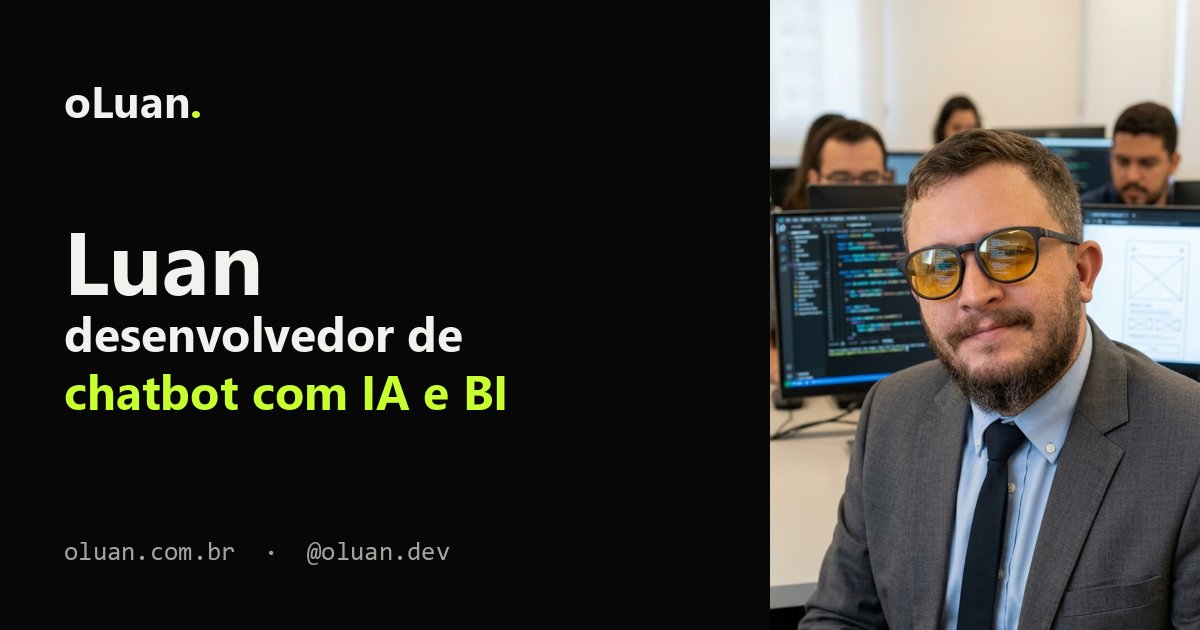
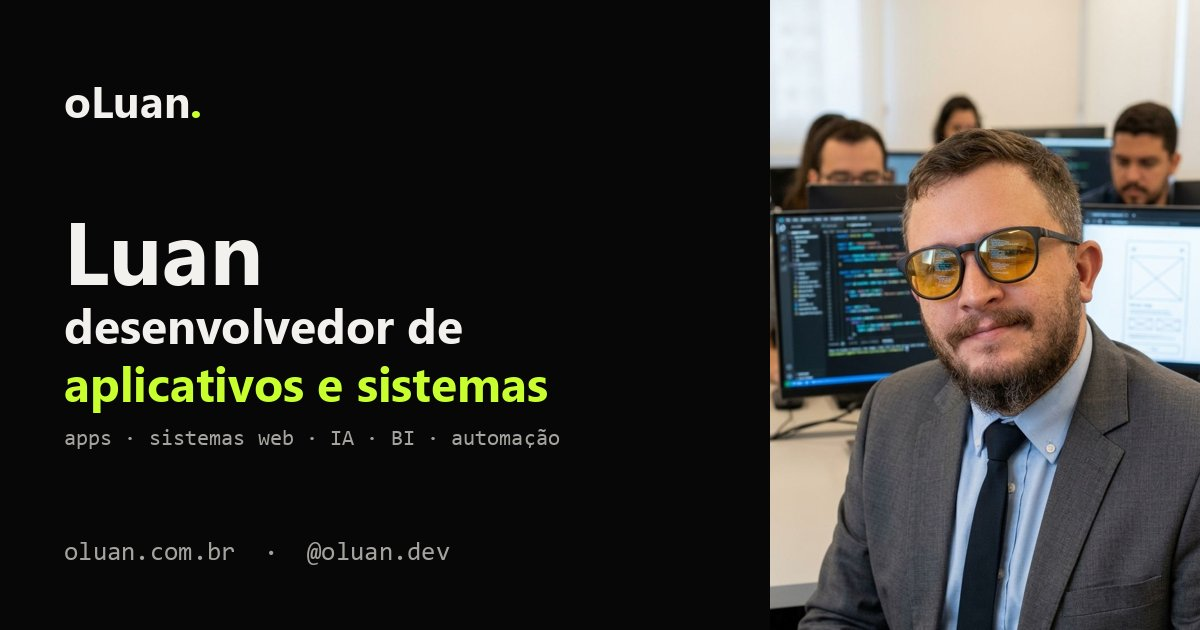
Posicionamento amplo: desenvolvedor de aplicativos e sistemas (títulos, h1, soluções, quem-e-luan, OG, JSON-LD); menus sem âncoras mortas
Claude-Session: https://claude.ai/code/session_01YQCytt5bLr4rNdWs85awun

Changed region(s): [[0.0308, 0.3619, 0.4625, 0.7238], [0.2775, 0.6937, 0.3392, 0.7238]]

diff --git a/index.html b/index.html
@@ -6,25 +6,25 @@
 <link rel="icon" type="image/png" href="favicon.png">
 <link rel="apple-touch-icon" href="apple-touch-icon.png">
 <script src="rastreio.js" defer></script>
-<title>Luan, desenvolvedor de chatbot com IA e BI · oLuan</title>
-<meta name="description" content="Luan (oluan.dev), desenvolvedor sob medida: chatbot com IA no WhatsApp, dashboard de BI com IA, projeções, KPIs e estoque para pequenas e médias empresas.">
+<title>Luan, desenvolvedor de aplicativos e sistemas · oLuan</title>
+<meta name="description" content="Luan (oluan.dev), desenvolvedor de aplicativos e sistemas sob medida: apps, sistemas web, chatbot com IA, dashboard de BI e automação para empresas.">
 <link rel="canonical" href="https://oluan.com.br/">
 <meta property="og:type" content="website">
 <meta property="og:locale" content="pt_BR">
 <meta property="og:site_name" content="oLuan">
 <meta property="og:url" content="https://oluan.com.br/">
-<meta property="og:title" content="Luan, desenvolvedor de chatbot com IA e BI">
-<meta property="og:description" content="Luan (oluan.dev), desenvolvedor sob medida: chatbot com IA no WhatsApp, dashboard de BI com IA, projeções, KPIs e estoque para pequenas e médias empresas.">
+<meta property="og:title" content="Luan, desenvolvedor de aplicativos e sistemas">
+<meta property="og:description" content="Luan (oluan.dev), desenvolvedor de aplicativos e sistemas sob medida: apps, sistemas web, chatbot com IA, dashboard de BI e automação para empresas.">
 <meta property="og:image" content="https://oluan.com.br/og.jpg">
 <meta property="og:image:width" content="1200">
 <meta property="og:image:height" content="630">
-<meta property="og:image:alt" content="Luan, desenvolvedor de chatbot com IA e BI">
+<meta property="og:image:alt" content="Luan, desenvolvedor de aplicativos e sistemas">
 <meta name="twitter:card" content="summary_large_image">
-<meta name="twitter:title" content="Luan, desenvolvedor de chatbot com IA e BI">
-<meta name="twitter:description" content="Luan (oluan.dev), desenvolvedor sob medida: chatbot com IA no WhatsApp, dashboard de BI com IA, projeções, KPIs e estoque para pequenas e médias empresas.">
+<meta name="twitter:title" content="Luan, desenvolvedor de aplicativos e sistemas">
+<meta name="twitter:description" content="Luan (oluan.dev), desenvolvedor de aplicativos e sistemas sob medida: apps, sistemas web, chatbot com IA, dashboard de BI e automação para empresas.">
 <meta name="twitter:image" content="https://oluan.com.br/og.jpg">
 <script type="application/ld+json">
-{"@context": "https://schema.org", "@graph": [{"@type": "Person", "@id": "https://oluan.com.br/#luan", "name": "Luan", "alternateName": ["oLuan", "oluan.dev"], "url": "https://oluan.com.br/", "image": "https://oluan.com.br/luan.jpg", "jobTitle": "Desenvolvedor de software sob medida", "email": "luan@oluan.com.br", "sameAs": ["https://github.com/oluan-dev", "https://instagram.com/oluan.dev"], "knowsAbout": ["chatbot com IA para WhatsApp", "Business Intelligence", "dashboard com IA", "banco de dados vetorizado", "projeções financeiras", "automação de processos"]}, {"@type": "WebSite", "@id": "https://oluan.com.br/#site", "name": "oLuan", "alternateName": "oluan.dev", "url": "https://oluan.com.br/", "inLanguage": "pt-BR", "publisher": {"@id": "https://oluan.com.br/#luan"}}, {"@type": "ProfessionalService", "name": "oLuan", "url": "https://oluan.com.br/", "email": "luan@oluan.com.br", "telephone": "+55-21-97056-8810", "areaServed": "BR", "sameAs": ["https://instagram.com/oluan.dev", "https://github.com/oluan-dev"], "description": "Chatbot com IA para WhatsApp, dashboard de Business Intelligence com IA, projeções financeiras e contábeis, KPIs, controle de estoque e automação de processos para pequenas e médias empresas.", "founder": {"@id": "https://oluan.com.br/#luan"}, "image": "https://oluan.com.br/og.jpg"}, {"@type": "FAQPage", "mainEntity": [{"@type": "Question", "name": "Preciso trocar o sistema que eu já uso?", "acceptedAnswer": {"@type": "Answer", "text": "Não. Eu conecto no que a empresa já tem: sistema de gestão, ERP, banco de dados ou até a planilha antiga. Tem API, uso a API. Não tem, leio do banco ou dos arquivos que o sistema exporta."}}, {"@type": "Question", "name": "O chatbot com IA pode inventar resposta?", "acceptedAnswer": {"@type": "Answer", "text": "Não, e por dois motivos. Ele responde consultando um banco de dados vetorizado com o histórico da sua empresa, que aprende com cada atendimento do dia a dia. E um supervisor digital revisa as conversas 24 horas por dia e corrige o que sair do trilho. O que ele não sabe vai para uma pessoa da equipe, com a conversa inteira junto."}}, {"@type": "Question", "name": "A IA do dashboard entende os números da minha empresa?", "acceptedAnswer": {"@type": "Answer", "text": "Entende e mostra de onde tirou. Ela lê o histórico de vendas, financeiro, estoque e atendimento, responde em português e aponta o dado que usou. Você confere antes de decidir."}}, {"@type": "Question", "name": "Quanto custa um chatbot com IA ou um dashboard de BI?", "acceptedAnswer": {"@type": "Answer", "text": "Preço fechado por projeto. Sai no diagnóstico, 2 dias depois de uma conversa de 30 minutos. Sem cobrança por hora e sem escopo que cresce sem aviso."}}, {"@type": "Question", "name": "Quanto tempo até funcionar?", "acceptedAnswer": {"@type": "Answer", "text": "Tem entrega toda semana. Você usa cada parte funcionando com os seus dados antes de eu começar a próxima. Nada de sumir três meses e voltar com surpresa."}}, {"@type": "Question", "name": "E depois de entregue?", "acceptedAnswer": {"@type": "Answer", "text": "30 dias de suporte inclusos. A equipe aprende a usar em uma tarde. Depois, manutenção mensal se fizer sentido para a sua empresa."}}]}]}
+{"@context": "https://schema.org", "@graph": [{"@type": "Person", "@id": "https://oluan.com.br/#luan", "name": "Luan", "alternateName": ["oLuan", "oluan.dev"], "url": "https://oluan.com.br/", "image": "https://oluan.com.br/luan.jpg", "jobTitle": "Desenvolvedor de aplicativos e sistemas sob medida", "email": "luan@oluan.com.br", "sameAs": ["https://github.com/oluan-dev", "https://instagram.com/oluan.dev"], "knowsAbout": ["aplicativos para celular", "sistemas web sob medida", "chatbot com IA para WhatsApp", "Business Intelligence", "dashboard com IA", "banco de dados vetorizado", "projeções financeiras", "integração de sistemas e APIs", "automação de processos"]}, {"@type": "WebSite", "@id": "https://oluan.com.br/#site", "name": "oLuan", "alternateName": "oluan.dev", "url": "https://oluan.com.br/", "inLanguage": "pt-BR", "publisher": {"@id": "https://oluan.com.br/#luan"}}, {"@type": "ProfessionalService", "name": "oLuan", "url": "https://oluan.com.br/", "email": "luan@oluan.com.br", "telephone": "+55-21-97056-8810", "areaServed": "BR", "sameAs": ["https://instagram.com/oluan.dev", "https://github.com/oluan-dev"], "description": "Desenvolvimento de aplicativos e sistemas sob medida para empresas: apps, sistemas web, chatbot com IA para WhatsApp, dashboard de BI com IA, projeções, KPIs, estoque, integrações e automação.", "founder": {"@id": "https://oluan.com.br/#luan"}, "image": "https://oluan.com.br/og.jpg"}, {"@type": "FAQPage", "mainEntity": [{"@type": "Question", "name": "Preciso trocar o sistema que eu já uso?", "acceptedAnswer": {"@type": "Answer", "text": "Não. Eu conecto no que a empresa já tem: sistema de gestão, ERP, banco de dados ou até a planilha antiga. Tem API, uso a API. Não tem, leio do banco ou dos arquivos que o sistema exporta."}}, {"@type": "Question", "name": "O chatbot com IA pode inventar resposta?", "acceptedAnswer": {"@type": "Answer", "text": "Não, e por dois motivos. Ele responde consultando um banco de dados vetorizado com o histórico da sua empresa, que aprende com cada atendimento do dia a dia. E um supervisor digital revisa as conversas 24 horas por dia e corrige o que sair do trilho. O que ele não sabe vai para uma pessoa da equipe, com a conversa inteira junto."}}, {"@type": "Question", "name": "A IA do dashboard entende os números da minha empresa?", "acceptedAnswer": {"@type": "Answer", "text": "Entende e mostra de onde tirou. Ela lê o histórico de vendas, financeiro, estoque e atendimento, responde em português e aponta o dado que usou. Você confere antes de decidir."}}, {"@type": "Question", "name": "Quanto custa um aplicativo ou sistema sob medida?", "acceptedAnswer": {"@type": "Answer", "text": "Preço fechado por projeto. Sai no diagnóstico, 2 dias depois de uma conversa de 30 minutos. Sem cobrança por hora e sem escopo que cresce sem aviso."}}, {"@type": "Question", "name": "Quanto tempo até funcionar?", "acceptedAnswer": {"@type": "Answer", "text": "Tem entrega toda semana. Você usa cada parte funcionando com os seus dados antes de eu começar a próxima. Nada de sumir três meses e voltar com surpresa."}}, {"@type": "Question", "name": "E depois de entregue?", "acceptedAnswer": {"@type": "Answer", "text": "30 dias de suporte inclusos. A equipe aprende a usar em uma tarde. Depois, manutenção mensal se fizer sentido para a sua empresa."}}]}]}
 </script>
 <link rel="preconnect" href="https://fonts.gstatic.com" crossorigin>
 <link href="https://fonts.googleapis.com/css2?family=Space+Grotesk:wght@500;700&family=Fraunces:ital,opsz,wght@0,9..144,500;1,9..144,400&family=Inter:wght@400;500;600&family=JetBrains+Mono:wght@500&display=swap" rel="stylesheet">
@@ -199,6 +199,9 @@ section h2{font-size:clamp(36px,5.6vw,84px);max-width:14ch;text-wrap:balance}
 .ask-line a{color:var(--acc);text-decoration:underline;text-underline-offset:4px}
 
 .agents{grid-template-columns:repeat(3,minmax(0,1fr))}
+.agent.wide{grid-column:1/-1;grid-template-columns:minmax(0,1.4fr) minmax(0,1fr);grid-template-rows:auto 1fr auto;column-gap:32px}
+.agent.wide .id{grid-column:1/-1}.agent.wide .mini{grid-column:2;grid-row:2/4}
+@media(max-width:620px){.agent.wide{grid-template-columns:1fr}.agent.wide .mini{grid-column:auto;grid-row:auto}}
 @media(max-width:1000px){.agents{grid-template-columns:repeat(2,minmax(0,1fr))}}
 @media(max-width:620px){.agents{grid-template-columns:1fr}}
 .agent.live .m6 .row{animation:none;opacity:1}
@@ -371,9 +374,9 @@ html.motion [data-reveal]{opacity:0;transform:translateY(28px)}
     <canvas id="gl" aria-hidden="true"></canvas>
     <div class="state" aria-hidden="true"><span class="on" data-s="0">Bagunça</span><b></b><span data-s="1">Painel</span></div>
     <div class="hero-copy"><div class="wrap">
-      <h1><span class="pre">Luan · desenvolvedor de chatbot com IA e BI</span>A bagunça da sua empresa <em>vira painel inteligente.</em></h1>
+      <h1><span class="pre">Luan · desenvolvedor de aplicativos e sistemas</span>A bagunça da sua empresa <em>vira painel inteligente.</em></h1>
       <div class="row">
-        <p class="sub">Chatbot com IA que faz todo o atendimento no WhatsApp. Dashboard de Business Intelligence que lê o histórico da sua empresa, projeta o caixa e diz onde cada setor tem que agir esta semana. Tudo ligado ao sistema que você já usa.</p>
+        <p class="sub">Aplicativos, sistemas web, chatbot com IA no atendimento e dashboard de BI que lê o histórico da sua empresa e diz onde cada setor tem que agir. Do zero ou em cima do que você já usa.</p>
         <div class="cta">
           <a class="btn acc" href="https://wa.me/5521970568810?text=Oi%20Luan%2C%20vi%20seu%20site%20e%20quero%20conversar%20sobre%20automa%C3%A7%C3%A3o" target="_blank" rel="noopener"><span class="dot"></span>Falar no WhatsApp</a>
           <a class="btn" href="fala-comigo.html">Que bagunça é a sua? →</a>
@@ -438,10 +441,20 @@ html.motion [data-reveal]{opacity:0;transform:translateY(28px)}
 <section id="solucoes"><div class="wrap">
   <div class="head">
     <p class="eyebrow" data-reveal>Soluções</p>
-    <h2 data-words>Do atendimento à decisão, no automático.</h2>
-    <p class="sub" data-reveal>Cada solução funciona sozinha. Juntas, o chatbot alimenta o painel e o painel diz quem cobrar, quem chamar e o que comprar. Passe o mouse (ou role até ela) para ver funcionando.</p>
+    <h2 data-words>Se a sua empresa precisa, eu construo.</h2>
+    <p class="sub" data-reveal>Aplicativo, sistema, atendimento, gestão. Cada solução funciona sozinha. Juntas, o chatbot alimenta o painel e o painel diz quem cobrar, quem chamar e o que comprar. Passe o mouse (ou role até ela) para ver funcionando.</p>
   </div>
   <div class="agents">
+    <div class="agent wide" data-agent data-reveal>
+      <div class="id"><span>00</span><span>Apps · sistemas · sob medida</span></div>
+      <div><h3>Aplicativos e sistemas sob medida</h3><p>App de celular, sistema web, portal do cliente, área administrativa, integração entre sistemas. Do zero, ou em cima do que a empresa já usa. Abaixo, as soluções que mais saem; se não estiver na lista, eu construo também.</p></div>
+      <div class="mini m4">
+        <div class="fone"></div>
+        <div class="arrow">→<i></i></div>
+        <div class="tbl"><i></i><i></i><i></i><i></i><i></i></div>
+      </div>
+      <div class="foot"><span>do celular ao servidor</span><b>qualquer tamanho</b></div>
+    </div>
     <div class="agent" data-agent data-reveal>
       <div class="id"><span>01</span><span>WhatsApp · IA</span></div>
       <div><h3>Chatbot com IA para todo o atendimento</h3><p>Tira dúvida, faz orçamento, agenda, remarca, cobra e abre chamado consultando o seu sistema. Passa para a equipe só o que precisa de gente, com o histórico junto.</p></div>
@@ -545,7 +558,7 @@ html.motion [data-reveal]{opacity:0;transform:translateY(28px)}
       <div class="qa-body"><p><b>Entende e mostra de onde tirou.</b> Ela lê o histórico de vendas, financeiro, estoque e atendimento, responde em português e aponta o dado que usou. Você confere antes de decidir.</p><div class="qchips"><span>histórico completo</span><span>pergunta em português</span></div></div>
     </details>
     <details class="qa" name="faq">
-      <summary><span class="qn">04 · preço</span><span class="qq">Quanto custa um chatbot com IA ou um dashboard de BI?</span><span class="qx" aria-hidden="true"></span></summary>
+      <summary><span class="qn">04 · preço</span><span class="qq">Quanto custa um aplicativo ou sistema sob medida?</span><span class="qx" aria-hidden="true"></span></summary>
       <div class="qa-body"><p><b>Preço fechado por projeto.</b> Sai no diagnóstico, 2 dias depois de uma conversa de 30 minutos. Sem cobrança por hora e sem escopo que cresce sem aviso.</p><div class="qchips"><span>conversa: 30 min</span><span>diagnóstico: 2 dias</span></div></div>
     </details>
     <details class="qa" name="faq">

diff --git a/quem-e-luan.html b/quem-e-luan.html
@@ -7,24 +7,24 @@
 <link rel="apple-touch-icon" href="apple-touch-icon.png">
 <script src="rastreio.js" defer></script>
 <title>Quem é Luan? Desenvolvedor sob medida · oLuan</title>
-<meta name="description" content="Luan (oluan.dev) é desenvolvedor sob medida para PMEs: chatbot com IA no WhatsApp, dashboard de BI com IA, projeções e automação. Quem conversa é quem constrói.">
+<meta name="description" content="Luan (oluan.dev) é desenvolvedor de aplicativos e sistemas sob medida: apps, sistemas web, chatbot com IA, BI e automação. Quem conversa é quem constrói.">
 <link rel="canonical" href="https://oluan.com.br/quem-e-luan.html">
 <meta property="og:type" content="website">
 <meta property="og:locale" content="pt_BR">
 <meta property="og:site_name" content="oLuan">
 <meta property="og:url" content="https://oluan.com.br/quem-e-luan.html">
 <meta property="og:title" content="Quem é Luan? · oLuan">
-<meta property="og:description" content="Luan (oluan.dev) é desenvolvedor sob medida para PMEs: chatbot com IA no WhatsApp, dashboard de BI com IA, projeções e automação. Quem conversa é quem constrói.">
+<meta property="og:description" content="Luan (oluan.dev) é desenvolvedor de aplicativos e sistemas sob medida: apps, sistemas web, chatbot com IA, BI e automação. Quem conversa é quem constrói.">
 <meta property="og:image" content="https://oluan.com.br/og.jpg">
 <meta property="og:image:width" content="1200">
 <meta property="og:image:height" content="630">
-<meta property="og:image:alt" content="Luan, desenvolvedor de chatbot com IA e BI">
+<meta property="og:image:alt" content="Luan, desenvolvedor de aplicativos e sistemas">
 <meta name="twitter:card" content="summary_large_image">
 <meta name="twitter:title" content="Quem é Luan? · oLuan">
-<meta name="twitter:description" content="Luan (oluan.dev) é desenvolvedor sob medida para PMEs: chatbot com IA no WhatsApp, dashboard de BI com IA, projeções e automação. Quem conversa é quem constrói.">
+<meta name="twitter:description" content="Luan (oluan.dev) é desenvolvedor de aplicativos e sistemas sob medida: apps, sistemas web, chatbot com IA, BI e automação. Quem conversa é quem constrói.">
 <meta name="twitter:image" content="https://oluan.com.br/og.jpg">
 <script type="application/ld+json">
-{"@context": "https://schema.org", "@type": "ProfilePage", "url": "https://oluan.com.br/quem-e-luan.html", "mainEntity": {"@type": "Person", "@id": "https://oluan.com.br/#luan", "name": "Luan", "alternateName": ["oLuan", "oluan.dev"], "url": "https://oluan.com.br/", "image": "https://oluan.com.br/luan.jpg", "jobTitle": "Desenvolvedor de software sob medida", "email": "luan@oluan.com.br", "sameAs": ["https://github.com/oluan-dev", "https://instagram.com/oluan.dev"], "knowsAbout": ["chatbot com IA para WhatsApp", "Business Intelligence", "dashboard com IA", "banco de dados vetorizado", "projeções financeiras", "automação de processos"]}}
+{"@context": "https://schema.org", "@type": "ProfilePage", "url": "https://oluan.com.br/quem-e-luan.html", "mainEntity": {"@type": "Person", "@id": "https://oluan.com.br/#luan", "name": "Luan", "alternateName": ["oLuan", "oluan.dev"], "url": "https://oluan.com.br/", "image": "https://oluan.com.br/luan.jpg", "jobTitle": "Desenvolvedor de aplicativos e sistemas sob medida", "email": "luan@oluan.com.br", "sameAs": ["https://github.com/oluan-dev", "https://instagram.com/oluan.dev"], "knowsAbout": ["aplicativos para celular", "sistemas web sob medida", "chatbot com IA para WhatsApp", "Business Intelligence", "dashboard com IA", "banco de dados vetorizado", "projeções financeiras", "integração de sistemas e APIs", "automação de processos"]}}
 </script>
 <link rel="preconnect" href="https://fonts.gstatic.com" crossorigin>
 <link href="https://fonts.googleapis.com/css2?family=Space+Grotesk:wght@500;700&family=Inter:wght@400;500;600&family=JetBrains+Mono:wght@500&display=swap" rel="stylesheet">
@@ -111,7 +111,7 @@ footer a:hover{color:var(--ink)}
 
 <nav><div class="wrap">
   <a class="logo" href="index.html">oLuan<span style="color:var(--acc)">.</span></a>
-  <div class="links"><a href="index.html#demo">Demo</a><a href="index.html#agentes">Agentes</a><a href="index.html#cases">Resultados</a><a href="index.html#capitulos">Método</a><a href="fala-comigo.html">Fala comigo</a><a href="quem-e-luan.html" aria-current="page">Quem é Luan?</a></div>
+  <div class="links"><a href="index.html#demo">Demo</a><a href="index.html#solucoes">Soluções</a><a href="index.html#capitulos">Método</a><a href="index.html#perguntas">Perguntas</a><a href="fala-comigo.html">Fala comigo</a><a href="quem-e-luan.html" aria-current="page">Quem é Luan?</a></div>
   <a class="btn" href="https://wa.me/5521970568810?text=Oi%20Luan%2C%20vi%20seu%20site%20e%20quero%20conversar%20sobre%20automa%C3%A7%C3%A3o" target="_blank" rel="noopener">WhatsApp</a>
 </div></nav>
 
@@ -121,7 +121,7 @@ footer a:hover{color:var(--ink)}
     <div>
       <p class="eyebrow in">Quem é Luan?</p>
       <h1 class="in">Quem conversa é quem <em>constrói.</em></h1>
-      <p class="in">Sou o Luan, <b>desenvolvedor sob medida</b> para pequenas e médias empresas. Eu faço o seu sistema fazer o que ele não faz: automação, painel com IA, chatbot de WhatsApp e app para a equipe de campo, construídos em cima da operação que você já tem.</p>
+      <p class="in">Sou o Luan, <b>desenvolvedor sob medida</b> para pequenas e médias empresas. Eu construo aplicativos e sistemas: app de celular, sistema web, chatbot com IA, dashboard de BI, integrações e automação. Do zero, ou em cima da operação que você já tem.</p>
       <p class="in">Não tem gerente de conta no meio. Eu atendo a conversa de 30 minutos, escrevo o diagnóstico, construo, implanto e meço. Se algo quebrar, quem responde sou eu, em até 1 dia útil.</p>
       <div class="links in">
         <a class="btn" href="https://www.instagram.com/oluan.dev/" target="_blank" rel="noopener">@oluan.dev ↗</a>
@@ -133,13 +133,14 @@ footer a:hover{color:var(--ink)}
 
 <section><div class="wrap">
   <p class="eyebrow">O que eu faço</p>
-  <h2>Cinco frentes. Todas começam onde o tempo vaza.</h2>
+  <h2>O que eu construo. Tudo começa onde o tempo vaza.</h2>
   <div class="frentes">
-    <div><small>01</small><b>Automação de serviço repetitivo</b><p>O que sua equipe faz 30 vezes por dia em 6 abas vira um clique ligado ao seu sistema por API.</p></div>
-    <div><small>02</small><b>Painel com IA que responde "por quê?"</b><p>Os números que importam e uma caixa onde você pergunta em português e recebe onde olhar.</p></div>
-    <div><small>03</small><b>Chatbot de WhatsApp</b><p>Responde boleto, status e horário consultando o seu sistema, 24 h. Chama um humano quando não sabe.</p></div>
-    <div><small>04</small><b>App para equipe de campo</b><p>Foto da nota, abastecimento, visita: do celular do funcionário direto para o painel.</p></div>
-    <div><small>05</small><b>Integrações</b><p>Dois sistemas que não conversam passam a conversar. Relatório que chega sozinho, todo dia.</p></div>
+    <div><small>01</small><b>Aplicativos e sistemas sob medida</b><p>App de celular, sistema web, portal do cliente, área administrativa. Do zero ou evoluindo o que já existe.</p></div>
+    <div><small>02</small><b>Chatbot com IA no atendimento</b><p>Tira dúvida, faz orçamento, agenda, cobra e abre chamado consultando o seu sistema, 24 h. Chama um humano quando não sabe.</p></div>
+    <div><small>03</small><b>Dashboard de BI com IA</b><p>Lê o histórico da empresa, projeta o caixa e diz onde cada setor tem que agir na semana. Você pergunta em português.</p></div>
+    <div><small>04</small><b>Projeções, KPIs e estoque</b><p>Fluxo de caixa e DRE projetados, metas por setor e alerta de ruptura de estoque antes de faltar.</p></div>
+    <div><small>05</small><b>Automação de tarefa repetitiva</b><p>O que a equipe faz várias vezes por dia em várias telas vira um clique ligado ao sistema.</p></div>
+    <div><small>06</small><b>Integrações</b><p>Dois sistemas que não conversam passam a conversar. Relatório que chega sozinho, todo dia.</p></div>
   </div>
 </div></section>
 

diff --git a/fala-comigo.html b/fala-comigo.html
@@ -18,7 +18,7 @@
 <meta property="og:image" content="https://oluan.com.br/og.jpg">
 <meta property="og:image:width" content="1200">
 <meta property="og:image:height" content="630">
-<meta property="og:image:alt" content="Luan, desenvolvedor de chatbot com IA e BI">
+<meta property="og:image:alt" content="Luan, desenvolvedor de aplicativos e sistemas">
 <meta name="twitter:card" content="summary_large_image">
 <meta name="twitter:title" content="Fala comigo · oLuan">
 <meta name="twitter:description" content="Fale direto com o Luan, desenvolvedor sob medida, pelo WhatsApp ou e-mail. Conte a tarefa que mais rouba tempo da sua empresa e receba a próxima pergunta.">
@@ -116,7 +116,7 @@ footer a:hover{color:var(--ink)}
 
 <nav><div class="wrap">
   <a class="logo" href="index.html">oLuan<span style="color:var(--acc)">.</span></a>
-  <div class="links"><a href="index.html#demo">Demo</a><a href="index.html#agentes">Agentes</a><a href="index.html#cases">Resultados</a><a href="index.html#capitulos">Método</a><a href="fala-comigo.html" aria-current="page">Fala comigo</a><a href="quem-e-luan.html">Quem é Luan?</a></div>
+  <div class="links"><a href="index.html#demo">Demo</a><a href="index.html#solucoes">Soluções</a><a href="index.html#capitulos">Método</a><a href="index.html#perguntas">Perguntas</a><a href="fala-comigo.html" aria-current="page">Fala comigo</a><a href="quem-e-luan.html">Quem é Luan?</a></div>
   <a class="btn" href="https://wa.me/5521970568810?text=Oi%20Luan%2C%20vi%20seu%20site%20e%20quero%20conversar%20sobre%20automa%C3%A7%C3%A3o" target="_blank" rel="noopener">WhatsApp</a>
 </div></nav>
 
